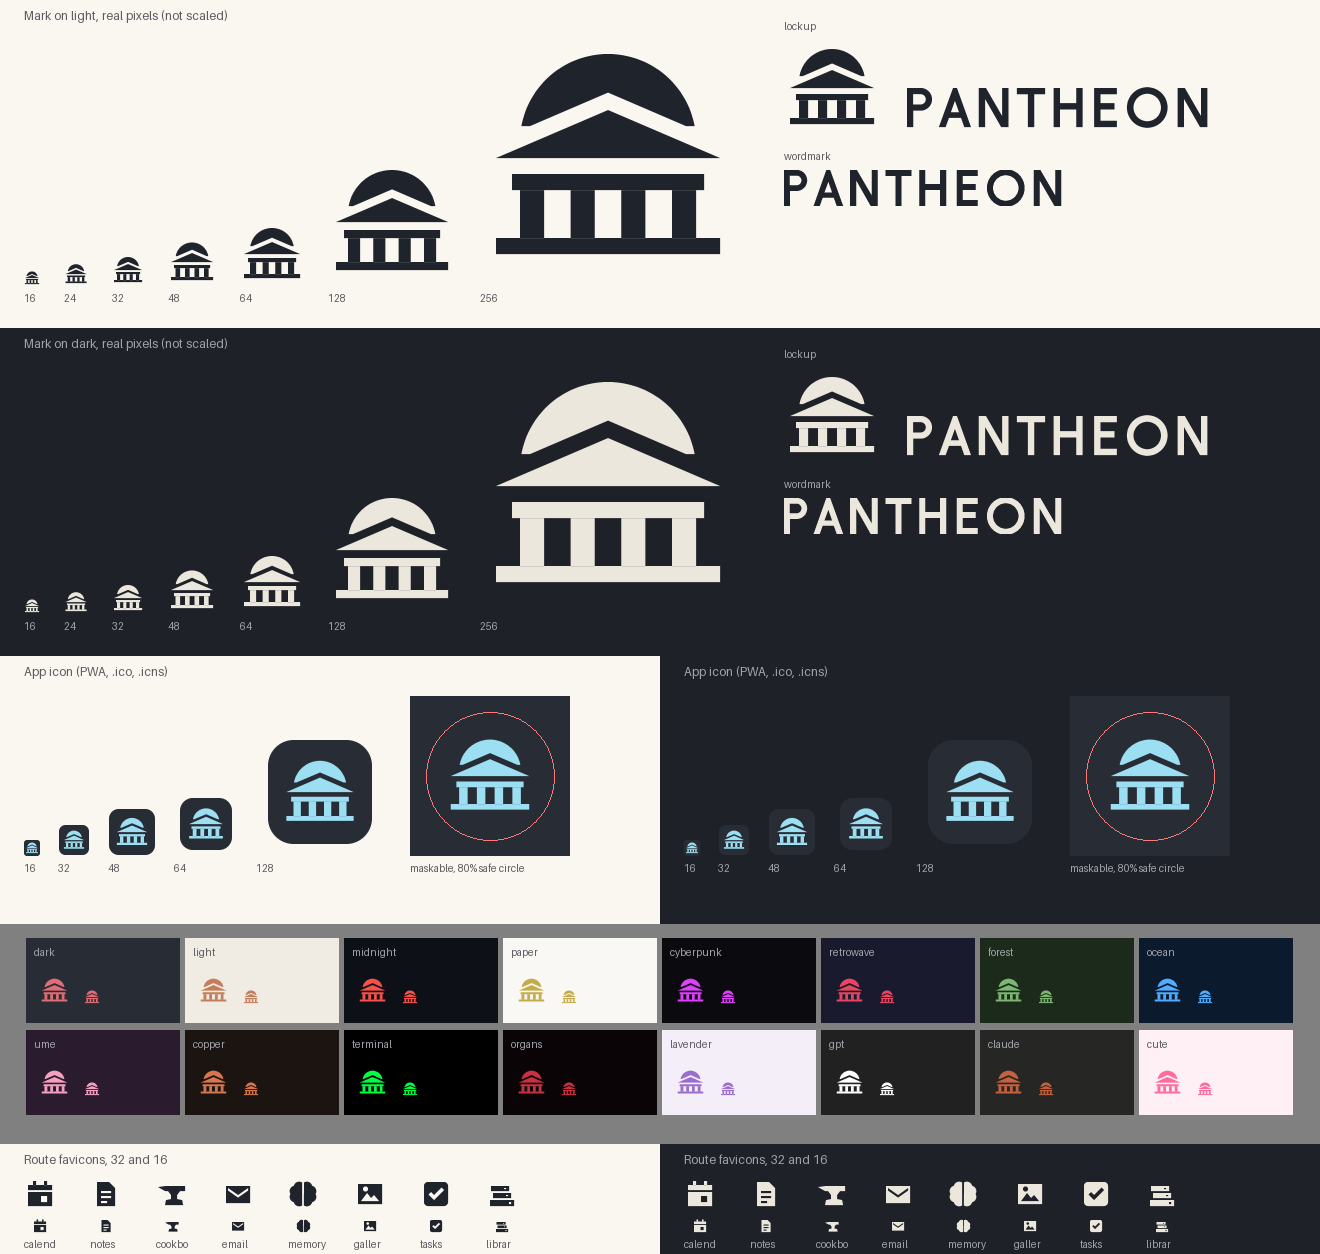
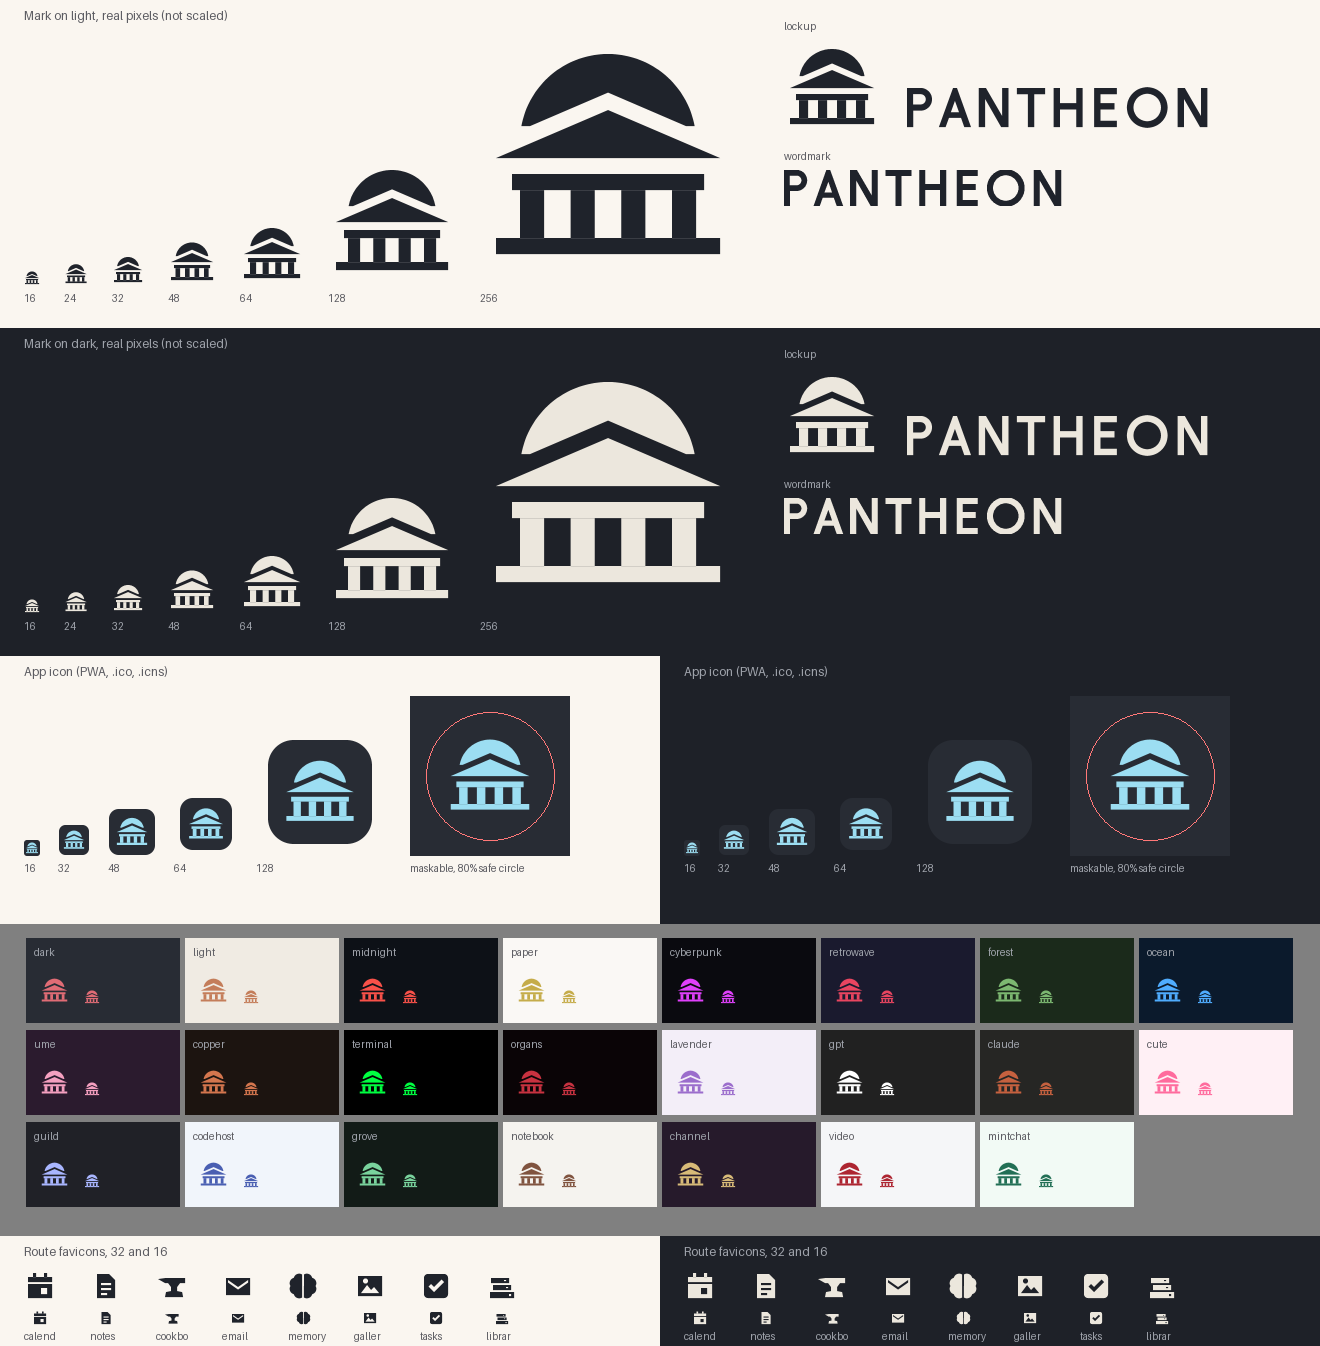
fix(brand): the contact sheet draws every palette, not two rows of them
main's seven palettes (#14) made twenty-three; the sheet's palette band was
two rows high, so the third row was drawn off its edge and
make_marks.py --check failed on the merged tree (the full suite's one new
failure on 69c26bb). The band now has as many rows as there are palettes;
the sheet is regenerated.

Claude-Session: https://claude.ai/code/session_01TPszU2oX3npAqxYYRzSSW7

diff --git a/scripts/branding/make_marks.py b/scripts/branding/make_marks.py
@@ -642,7 +642,7 @@ def _same(rel, new: bytes, old: bytes) -> bool:
 
 
 def _palettes():
-    """The sixteen built-in palettes as (name, bg, brand colour) — read from
+    """Every built-in palette as (name, bg, brand colour) — read from
     `static/js/theme.js` itself, so the sheet cannot show a palette that is not
     shipped. The brand colour is the palette's `advanced.brandColor` if it sets
     one (`gpt` does), else its red (`computeAdvancedDefaults`)."""
@@ -716,12 +716,15 @@ def contact_sheet():
         label(d, (x + 8, 206), "maskable, 80% safe circle", bg, small)
     sections.append(im)
 
-    # The sixteen palettes, painted the way the app paints them: the palette's
+    # Every palette, painted the way the app paints them: the palette's
     # brand colour on its background, at the welcome screen's 1.8rem (≈29 px)
     # and at a 16 px tab.
     pal = _palettes()
     cell_w, cell_h, per_row = (W - 2 * pad) // 8, 92, 8
-    im, d = band(pad + 2 * cell_h + pad // 2, "#808080")
+    # As many rows as there are palettes: the band was two rows high for the
+    # sixteen, and main's seven new ones (#14) were drawn off its bottom edge.
+    rows = -(-len(pal) // per_row)
+    im, d = band(pad + rows * cell_h + pad // 2, "#808080")
     for i, (name, bg, brand) in enumerate(pal):
         cx = pad + (i % per_row) * cell_w
         cy = pad // 2 + (i // per_row) * cell_h
